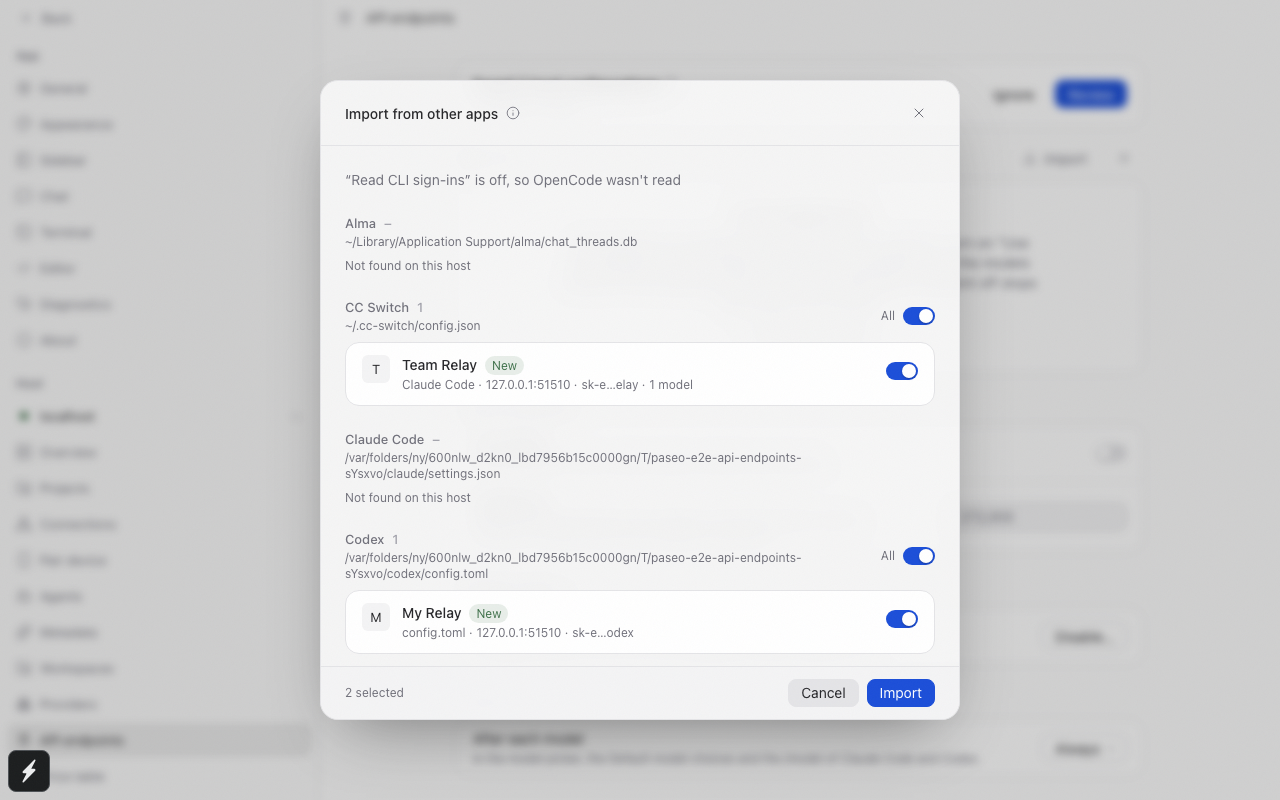
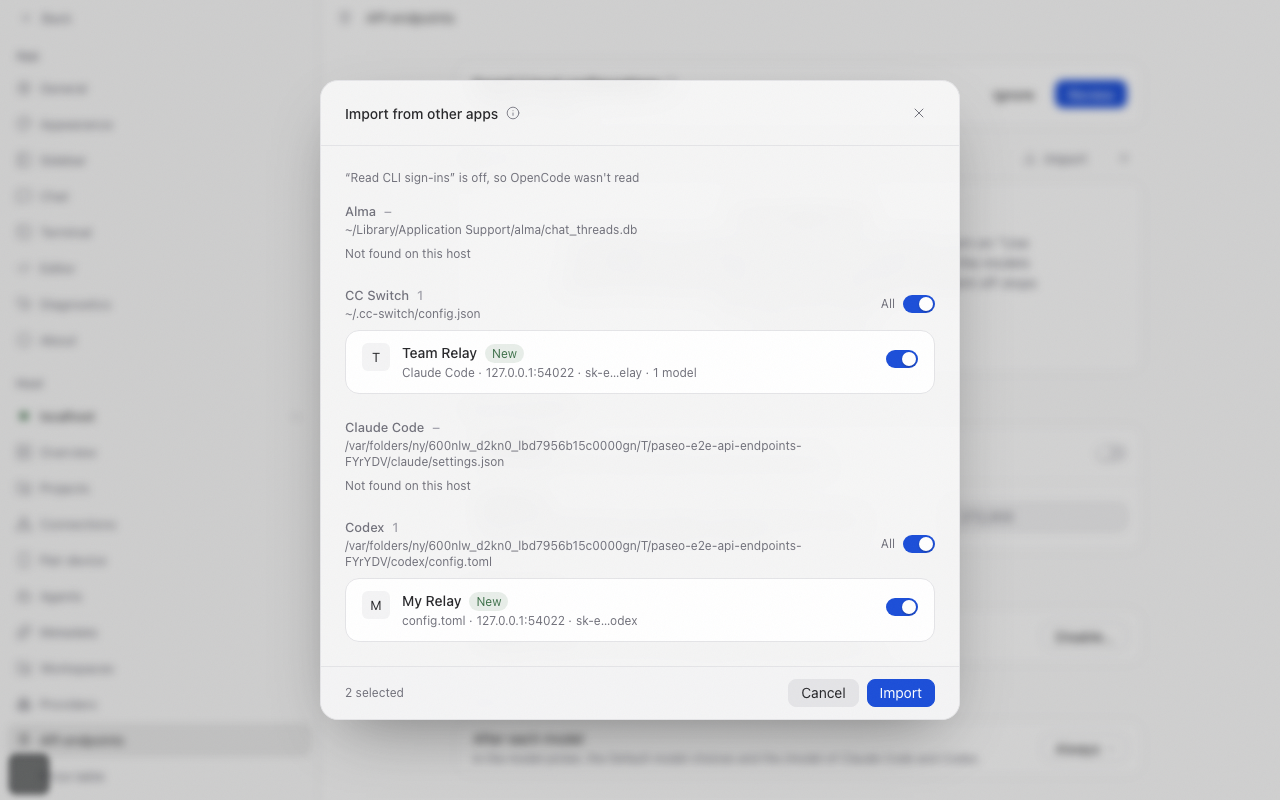
fix(privacy): 工单 05 审查修正

diff --git a/packages/server/src/server/api-endpoints/service.ts b/packages/server/src/server/api-endpoints/service.ts
@@ -628,6 +628,8 @@ export type ApiEndpointErrorCode =
   // 导入时那一条已经不在它的软件里了（重新扫描）；替换给的不是名称撞上的那条（params.name）。
   | "import_gone"
   | "import_cannot_replace"
+  // 「读取 CLI 登录凭证」关着，选中的 OpenCode 条目跳过了，别的照常导入。
+  | "import_cli_sign_ins_off"
   // 加某一条时写文件等出了错（params.reason 是 errno 或错误名）。
   | "import_failed"
   // 「忽略」没记上（params.reason：errno、endpoints_unparsable 或错误名）。
@@ -1217,6 +1219,8 @@ export class ApiEndpointService {
   private importSecret: Buffer | null = null;
   // 发现提示上次真读别的软件的结果（不含 OpenCode）与时刻：一分钟内照用，导入之后丢掉。
   private discoveryRead: DiscoveryRead | null = null;
+  // 上次真读到的 OpenCode 条目的指纹：「读取 CLI 登录凭证」关着时导入据此认出要跳过的那几条。
+  private openCodeFingerprints = new Set<string>();
   private readonly isAutoUpdate: () => boolean;
   // 每家最近一次读到的余额与读的时刻：一分钟内照用；保存或删掉这家时丢掉。只在内存里，开机为空。
   private readonly keptBalances = new Map<
@@ -4409,10 +4413,7 @@ export class ApiEndpointService {
     sources: ApiEndpointImportSource[];
     cliSignInsOff: boolean;
   } {
-    const cliSignInsOff = input.includeOpenCode && !this.cliSignIns.allowed();
-    const settled = this.settledImports({
-      includeOpenCode: input.includeOpenCode && !cliSignInsOff,
-    });
+    const { settled, openCodeSkipped } = this.settledImports(input);
     // 刚读过的比发现提示存着的新：提示照它算（不含 OpenCode），一分钟从这一刻重新算。
     const withoutOpenCode = settled.filter(({ source }) => source.id !== "opencode");
     this.discoveryRead = {
@@ -4427,7 +4428,7 @@ export class ApiEndpointService {
       error: source.error,
       items: entries.map(wireImportItem),
     }));
-    return { sources, cliSignInsOff };
+    return { sources, cliSignInsOff: openCodeSkipped };
   }
 
   /**
@@ -4448,12 +4449,21 @@ export class ApiEndpointService {
   }
 
   private async importPicked(picks: readonly ApiEndpointImportPick[]): Promise<ImportOutcome> {
-    const entries = this.settledImports({ includeOpenCode: this.cliSignIns.allowed() }).flatMap(
-      (source) => source.entries,
-    );
+    const { settled, openCodeSkipped } = this.settledImports({ includeOpenCode: true });
+    const entries = settled.flatMap((source) => source.entries);
     const imported: ApiEndpointNameRef[] = [];
+    let hasSkippedOpenCode = false;
     for (const pick of picks) {
       const entry = entries.find((candidate) => candidate.fingerprint === pick.fingerprint);
+      // 开着时扫到的 OpenCode 条目、现在开关关着：跳过，别的照常导入，最后说明原因。
+      if (
+        entry === undefined &&
+        openCodeSkipped &&
+        this.openCodeFingerprints.has(pick.fingerprint)
+      ) {
+        hasSkippedOpenCode = true;
+        continue;
+      }
       // 指纹对不上（来源变了、daemon 重启过）：扫描结果过时了，没有可说的那一条。
       if (entry === undefined) return { imported, failed: null, error: importGone() };
       try {
@@ -4465,7 +4475,7 @@ export class ApiEndpointService {
         return { imported, failed, error: this.importItemError({ error, entry }) };
       }
     }
-    return { imported, failed: null, error: null };
+    return { imported, failed: null, error: hasSkippedOpenCode ? openCodeNotImported() : null };
   }
 
   /** 一条没成的原因：请求的错照原样；写文件等别的错记日志，换成 import_failed（params.reason 是 errno 或错误名）。 */
@@ -4796,16 +4806,26 @@ export class ApiEndpointService {
     }));
   }
 
+  /**
+   * 读来源并对照已有的接口。要了 OpenCode、但「读取 CLI 登录凭证」关着时不读它，openCodeSkipped 为 true；
+   * 读了就记下它那几条的指纹。
+   */
   private settledImports(input: { includeOpenCode: boolean }) {
-    const sources = readImportSources({
-      context: this.importContext(),
-      includeOpenCode: input.includeOpenCode,
-    });
-    return settleImports({
-      sources,
+    const openCodeSkipped = input.includeOpenCode && !this.cliSignIns.allowed();
+    const readsOpenCode = input.includeOpenCode && !openCodeSkipped;
+    const settled = settleImports({
+      sources: readImportSources({ context: this.importContext(), includeOpenCode: readsOpenCode }),
       held: this.heldForImport(this.readState()),
       fingerprintSecret: this.importFingerprintSecret(),
     });
+    if (readsOpenCode) {
+      this.openCodeFingerprints = new Set(
+        settled
+          .filter(({ source }) => source.id === "opencode")
+          .flatMap(({ entries }) => entries.map((entry) => entry.fingerprint)),
+      );
+    }
+    return { settled, openCodeSkipped };
   }
 
   private importContext(): ImportReadContext {
@@ -7807,6 +7827,13 @@ function importLinkTarget(input: {
   if (byId !== undefined) return byId;
   const byName = endpoints.find((endpoint) => endpoint.name.toLowerCase() === parsed.identity);
   return byName ?? null;
+}
+
+function openCodeNotImported(): ApiEndpointRequestError {
+  return new ApiEndpointRequestError({
+    code: "import_cli_sign_ins_off",
+    message: "Read CLI sign-ins is off, so the entries from OpenCode weren't imported",
+  });
 }
 
 function importGone(): ApiEndpointRequestError {

diff --git a/packages/app/src/api-endpoints/use-import-apps.ts b/packages/app/src/api-endpoints/use-import-apps.ts
@@ -10,6 +10,8 @@ import type {
 import { DaemonConnectionError, DaemonRpcError } from "@getpaseo/client/internal/daemon-client";
 import { useToast } from "@/contexts/toast-context";
 import { useFetchQuery } from "@/data/query";
+import { selectHostFeature } from "@/runtime/host-features";
+import { useSessionStore } from "@/stores/session-store";
 import { useHostRuntimeClient, useHostRuntimeIsConnected } from "@/runtime/host-runtime";
 import { toErrorMessage } from "@/utils/error-messages";
 import { importDiscoveryQueryKey } from "./use-import-discovery";
@@ -18,11 +20,11 @@ export type ImportScanState =
   | { status: "loading" }
   | { status: "error"; message: string }
   // updatedAt：这份扫描结果的时刻，变了就重新定默认选择。
-  // openCodeNotRead：「读取 CLI 登录凭证」关着，主机没读 OpenCode。
+  // openCodeSkipped：「读取 CLI 登录凭证」关着，主机没读 OpenCode。
   | {
       status: "ready";
       sources: ApiEndpointImportSource[];
-      openCodeNotRead: boolean;
+      openCodeSkipped: boolean;
       updatedAt: number;
     };
 
@@ -59,7 +61,10 @@ export function useImportApps({ serverId }: { serverId: string }): {
       if (!client) throw new Error(t("workspace.terminal.hostDisconnected"));
       const response = await client.apiEndpointImportScan({ includeOpenCode: true });
       if (response.error) throw new Error(importErrorText(t, response.error));
-      return { sources: response.sources, openCodeNotRead: response.cliSignInsOff === true };
+      // COMPAT(readCliSignIns): added in v0.17.0, remove gate after 2027-04-25.
+      const knowsSwitch = selectHostFeature(useSessionStore.getState(), serverId, "readCliSignIns");
+      const openCodeSkipped = knowsSwitch && response.cliSignInsOff === true;
+      return { sources: response.sources, openCodeSkipped };
     },
   });
   const retryScan = useCallback(() => void query.refetch(), [query]);
@@ -123,6 +128,8 @@ function importErrorText(t: TFunction, error: ApiEndpointError): string {
       return t("settings.apiEndpoints.import.errors.failed", {
         reason: error.params?.reason ?? "",
       });
+    case "import_cli_sign_ins_off":
+      return t("settings.apiEndpoints.import.errors.cliSignInsOff");
     case "import_cannot_replace":
       return t("settings.apiEndpoints.import.errors.cannotReplace", {
         name: error.params?.name ?? "",

diff --git a/packages/app/src/api-endpoints/import-apps-sheet.tsx b/packages/app/src/api-endpoints/import-apps-sheet.tsx
@@ -169,22 +169,28 @@ export function ImportAppsSheet({
         </View>
       ) : null}
       {sources ? (
-        <View style={styles.body}>
-          {scan.status === "ready" && scan.openCodeNotRead ? (
-            <Text color="foregroundMuted" testID="api-endpoint-import-opencode-not-read">
+        <View style={styles.listed}>
+          {scan.status === "ready" && scan.openCodeSkipped ? (
+            <Text
+              variant="caption"
+              color="foregroundMuted"
+              testID="api-endpoint-import-opencode-not-read"
+            >
               {t("settings.apiEndpoints.import.openCodeNotRead")}
             </Text>
           ) : null}
-          {sources.map((source) => (
-            <ImportSourceSection
-              key={source.id}
-              source={source}
-              picks={picks}
-              failure={failure}
-              onPicks={setPicks}
-              onPick={updatePick}
-            />
-          ))}
+          <View style={styles.body}>
+            {sources.map((source) => (
+              <ImportSourceSection
+                key={source.id}
+                source={source}
+                picks={picks}
+                failure={failure}
+                onPicks={setPicks}
+                onPick={updatePick}
+              />
+            ))}
+          </View>
         </View>
       ) : null}
     </AdaptiveModalSheet>
@@ -533,6 +539,10 @@ const TRAILING_SEPARATOR = "\u00A0·";
 const SNAP_POINTS = ["90%"];
 
 const styles = StyleSheet.create((theme) => ({
+  // 关着时的说明管整份来源列表：离列表近，比各来源之间的间距小。
+  listed: {
+    gap: theme.spacing[4],
+  },
   body: {
     gap: theme.spacing[6],
   },

diff --git a/packages/server/src/server/daemon-e2e/api-endpoint-import.e2e.test.ts b/packages/server/src/server/daemon-e2e/api-endpoint-import.e2e.test.ts
@@ -407,17 +407,19 @@ describe("import from other apps", () => {
       ["claude-code", true, null],
       ["codex", true, null],
     ]);
-    // 导入时重读来源也不碰 OpenCode：开着时扫到的那条对不上了。
-    const fromOpenCode = await client.apiEndpointImport([
-      { fingerprint: openCode.fingerprint, action: "add" },
-    ]);
-    expect(fromOpenCode).toMatchObject({ imported: [], error: { code: "import_gone" } });
+    // 开着时扫到、关了之后才导入：OpenCode 那条跳过并说明原因，排在它后面的照常导入。
     const ccRelay = itemsOf(off, "cc-switch")[0];
-    const fromCcSwitch = await client.apiEndpointImport([
-      { fingerprint: ccRelay!.fingerprint, action: "add" },
+    if (!ccRelay) throw new Error("Expected CC Relay");
+    const mixed = await client.apiEndpointImport([
+      { fingerprint: openCode.fingerprint, action: "add" },
+      { fingerprint: ccRelay.fingerprint, action: "add" },
     ]);
-    expect(fromCcSwitch.error).toBeNull();
-    expect(fromCcSwitch.imported.map((entry) => entry.name)).toEqual(["CC Relay"]);
+    expect(mixed.imported.map((entry) => entry.name)).toEqual(["CC Relay"]);
+    expect(mixed.failed).toBeNull();
+    expect(mixed.error).toEqual({
+      code: "import_cli_sign_ins_off",
+      message: "Read CLI sign-ins is off, so the entries from OpenCode weren't imported",
+    });
 
     await client.patchDaemonConfig({ readCliSignIns: true });
     const on = await client.apiEndpointImportScan({ includeOpenCode: true });

diff --git a/packages/app/src/i18n/resources/ru.ts b/packages/app/src/i18n/resources/ru.ts
@@ -2612,6 +2612,8 @@ export const ru: TranslationResources = {
         errors: {
           gone: "Результаты сканирования устарели, Osuna просканировал заново. Проверьте выбор и импортируйте снова.",
           failed: "Osuna не смог сохранить его ({{reason}})",
+          cliSignInsOff:
+            "«Читать входы CLI» выключено, поэтому записи из OpenCode не импортированы",
           cannotReplace:
             "Имя {{name}} не совпадает ни с одним вашим эндпоинтом; выберите «Оставить оба».",
         },

diff --git a/packages/app/src/i18n/resources/ja.ts b/packages/app/src/i18n/resources/ja.ts
@@ -2600,6 +2600,8 @@ export const ja: TranslationResources = {
         errors: {
           gone: "スキャン結果が古くなっていたため、Osuna がもう一度スキャンしました。選択を確認してから再度インポートしてください。",
           failed: "Osuna が保存できませんでした（{{reason}}）",
+          cliSignInsOff:
+            "「CLI のサインイン情報を読む」がオフのため、OpenCode の項目はインポートしていません",
           cannotReplace:
             "{{name}} は既存のエンドポイントと名前が重なっていません。両方残すを選んでください。",
         },

diff --git a/packages/app/src/i18n/resources/ar.ts b/packages/app/src/i18n/resources/ar.ts
@@ -2575,6 +2575,7 @@ export const ar: TranslationResources = {
         errors: {
           gone: "كانت نتائج الفحص قديمة، فأعاد Osuna الفحص. راجع اختياراتك ثم استورد من جديد.",
           failed: "تعذّر على Osuna حفظه ({{reason}})",
+          cliSignInsOff: "«قراءة تسجيلات دخول CLI» متوقفة، لذلك لم تُستورد إدخالات OpenCode",
           cannotReplace: "لا يطابق اسم {{name}} أي نقطة نهاية لديك؛ أبقِ الاثنين بدلًا من ذلك.",
         },
       },

diff --git a/packages/app/src/i18n/resources/ko.ts b/packages/app/src/i18n/resources/ko.ts
@@ -2590,6 +2590,7 @@ export const ko: TranslationResources = {
         errors: {
           gone: "검색 결과가 오래되어 Osuna가 다시 검색했습니다. 선택을 확인하고 다시 가져오세요.",
           failed: "Osuna가 저장하지 못했습니다({{reason}})",
+          cliSignInsOff: "'CLI 로그인 정보 읽기'가 꺼져 있어 OpenCode 항목은 가져오지 않았습니다",
           cannotReplace:
             "{{name}}은(는) 기존 엔드포인트와 이름이 겹치지 않습니다. 둘 다 유지를 선택하세요.",
         },

diff --git a/packages/app/src/i18n/resources/fr.ts b/packages/app/src/i18n/resources/fr.ts
@@ -2630,6 +2630,8 @@ export const fr: TranslationResources = {
         errors: {
           gone: "L'analyse n'était plus à jour, Osuna a analysé à nouveau. Vérifiez la sélection puis importez à nouveau.",
           failed: "Osuna n'a pas pu l'enregistrer ({{reason}})",
+          cliSignInsOff:
+            "« Lire les connexions des CLI » est désactivé : les entrées d'OpenCode n'ont pas été importées",
           cannotReplace:
             "{{name}} ne porte le nom d'aucun de vos endpoints ; gardez les deux à la place.",
         },

diff --git a/packages/app/src/i18n/resources/es.ts b/packages/app/src/i18n/resources/es.ts
@@ -2630,6 +2630,8 @@ export const es: TranslationResources = {
         errors: {
           gone: "El escaneo estaba desactualizado y Osuna volvió a escanear. Revisa la selección e importa de nuevo.",
           failed: "Osuna no pudo guardarlo ({{reason}})",
+          cliSignInsOff:
+            "«Leer inicios de sesión de las CLI» está desactivado, así que las entradas de OpenCode no se importaron",
           cannotReplace:
             "{{name}} no comparte nombre con ningún endpoint tuyo; conserva ambos en su lugar.",
         },

diff --git a/packages/app/src/i18n/resources/pt-BR.ts b/packages/app/src/i18n/resources/pt-BR.ts
@@ -2614,6 +2614,8 @@ export const ptBR: TranslationResources = {
         errors: {
           gone: "A verificação estava desatualizada, então o Osuna verificou de novo. Confira a seleção e importe novamente.",
           failed: "O Osuna não conseguiu salvá-lo ({{reason}})",
+          cliSignInsOff:
+            "“Ler logins das CLIs” está desativado, então as entradas do OpenCode não foram importadas",
           cannotReplace: "{{name}} não tem o nome de nenhum endpoint seu; mantenha os dois.",
         },
       },

diff --git a/packages/app/src/i18n/resources/en.ts b/packages/app/src/i18n/resources/en.ts
@@ -2640,6 +2640,8 @@ export const en = {
         errors: {
           gone: "The scan was out of date, so Osuna scanned again. Check the picks and import again.",
           failed: "Osuna couldn't save it ({{reason}})",
+          cliSignInsOff:
+            "“Read CLI sign-ins” is off, so the entries from OpenCode weren't imported",
           cannotReplace:
             "{{name}} doesn't share a name with an endpoint you have; keep both instead.",
         },
